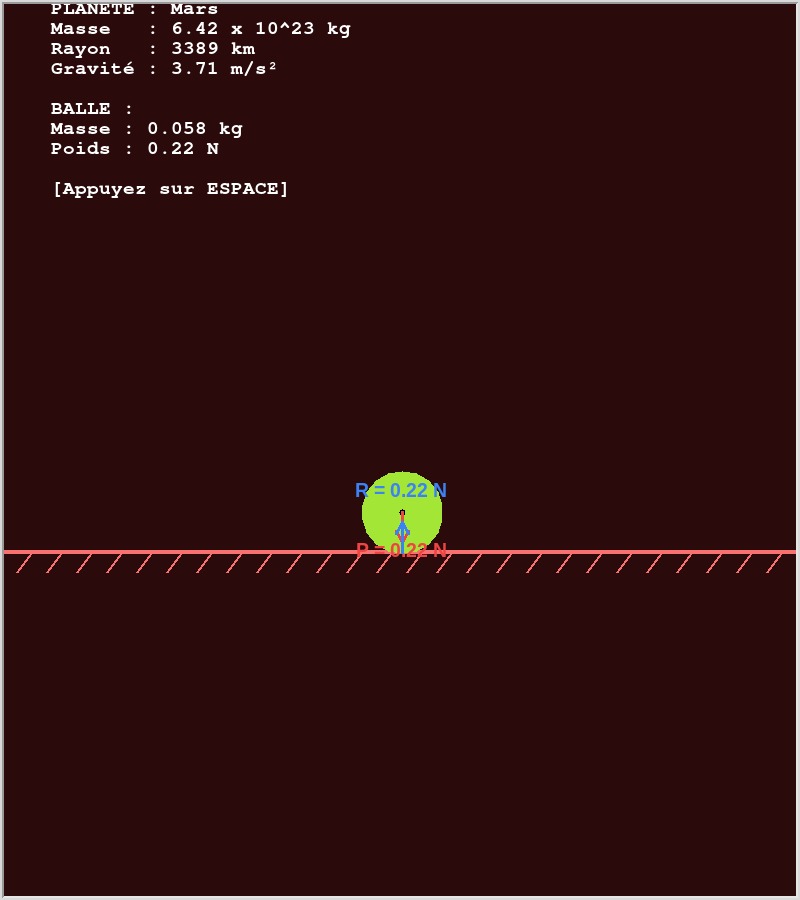
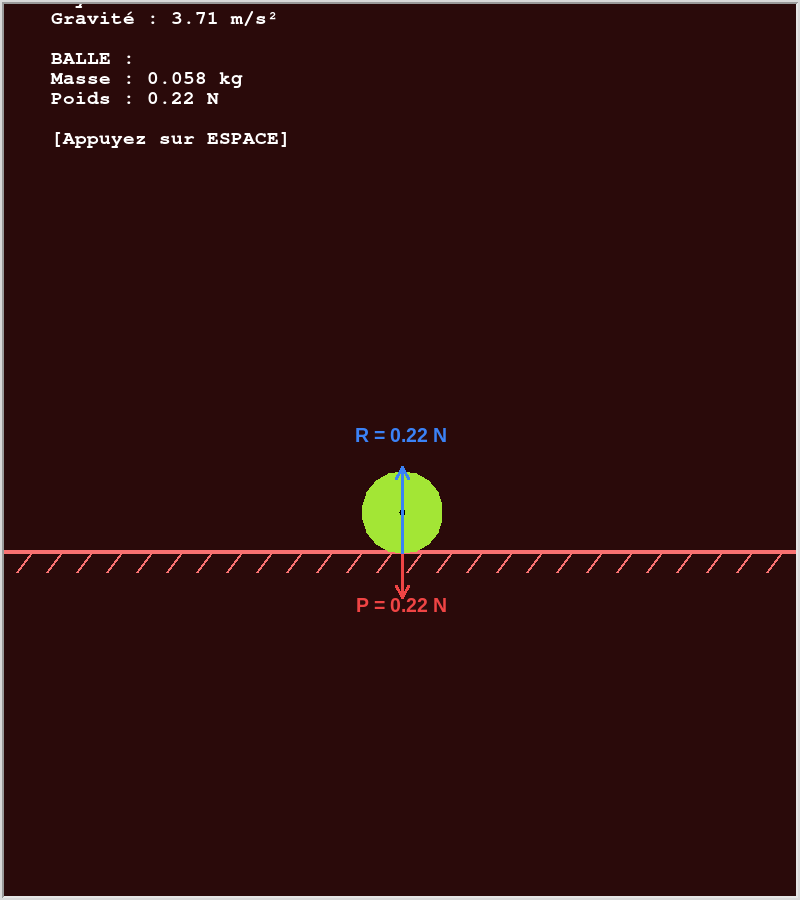
fix: optimisation de l'affichage du texte et des flèches

diff --git a/main.py b/main.py
@@ -17,7 +17,7 @@ index = 0
 masse_balle = 0.058  # 58 grammes
 
 ecran = turtle.Screen()
-ecran.setup(width=800, height=600) # Taille de fenêtre classique et harmonieuse
+ecran.setup(width=800, height=900) # Taille de fenêtre classique et harmonieuse
 ecran.title("Forces de gravité (Appuyez sur ESPACE)")
 
 t = turtle.Turtle()
@@ -71,29 +71,25 @@ def dessiner():
         t.goto(i - 15, -120)
     
     # 2. La Balle
-    rayon_balle = 40
     t.penup()
     t.goto(0, -100)
     t.pendown()
     t.color("#a3e635")
     t.begin_fill()
-    t.circle(rayon_balle)
+    t.circle(40)
     t.end_fill()
-    
+
     t.penup()
     t.goto(0, -60)
     t.color("black")
-    t.dot(6) 
+    t.dot(6)
 
-    longueur = max(p["g"] * 8, 20)
+    # Longueur des flèches ajustée pour ne pas se chevaucher
+    longueur = p["g"] * 12 + 40
 
-    # 3. Poids (P)
     dessiner_fleche(0, -60, 270, longueur, "#ef4444", f"P = {poids:.2f} N")
-
-    # 4. Réaction (R)
     dessiner_fleche(0, -100, 90, longueur, "#3b82f6", f"R = {poids:.2f} N")
 
-    # 5. Affichage du texte seul (Sans le rectangle moche)
     texte = (
         f"PLANÈTE : {p['nom']}\n"
         f"Masse   : {p['masse']} kg\n"
@@ -104,20 +100,19 @@ def dessiner():
         f"Poids : {poids:.2f} N\n\n"
         f"[Appuyez sur ESPACE]"
     )
-    
     t.penup()
-    t.goto(-350, 120)
+    t.goto(-350, 300) # Remonté pour utiliser l'espace supplémentaire de 900px
     t.color("white")
     t.write(texte, font=("Courier", 14, "bold"))
     
     ecran.update()
 
-def suivant():
+def changer_planete():
     global index
     index = (index + 1) % len(planetes)
     dessiner()
 
 dessiner()
-ecran.onkey(suivant, "space")
+ecran.onkey(changer_planete, "space")
 ecran.listen()
 turtle.done()
